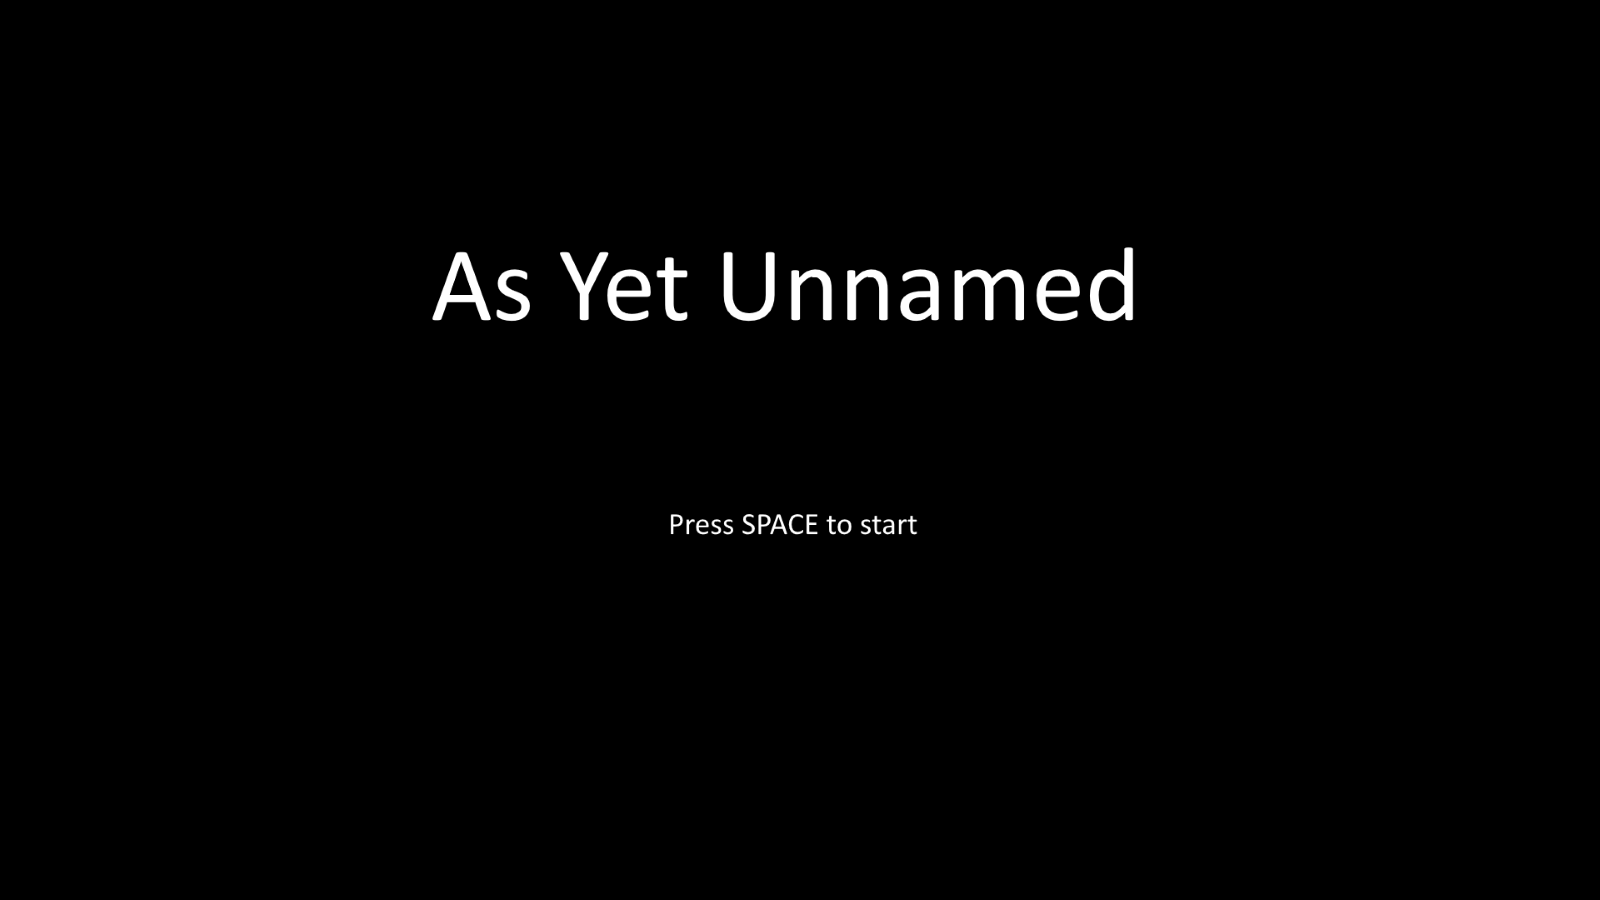
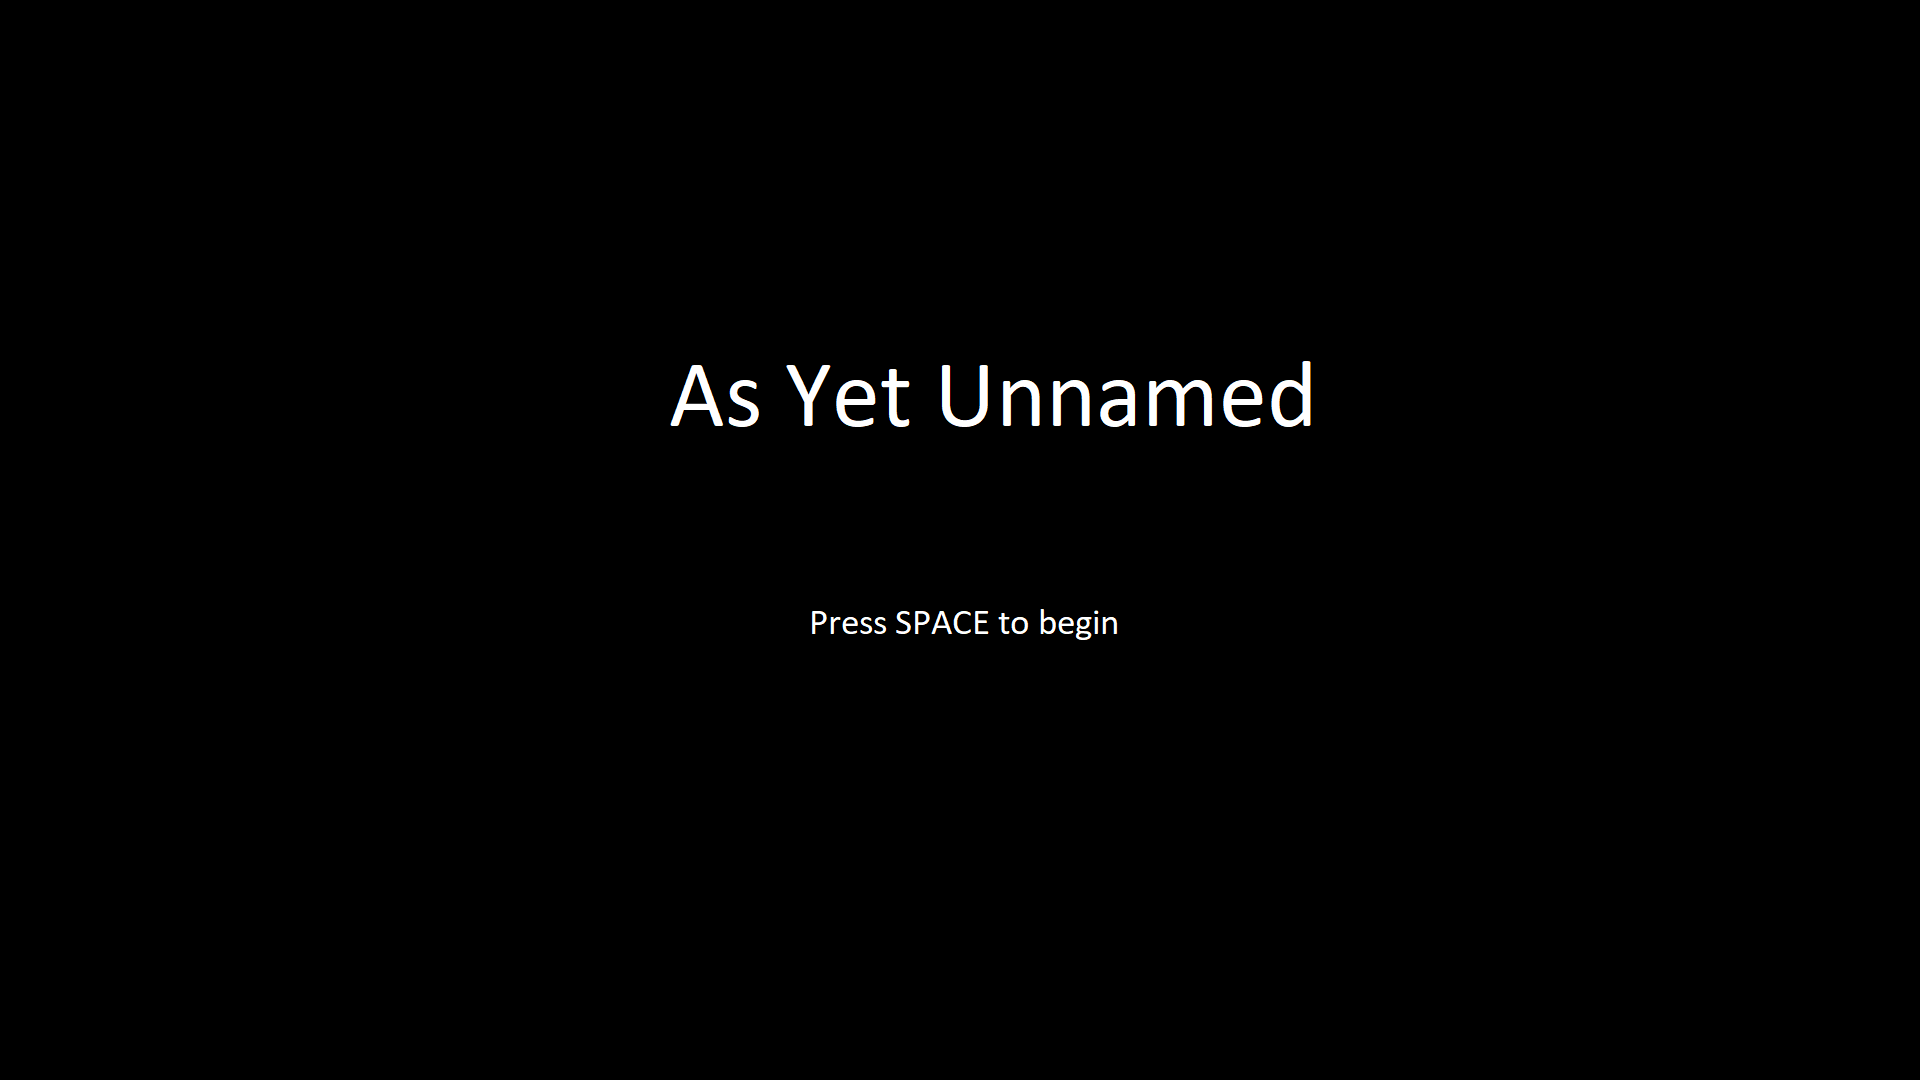
Removed UI class, TitleScreen now closes, bumped up TitleScreen resolution

Changed region(s): [[0.25, 0.28, 0.7188, 0.4044], [0.4062, 0.56, 0.5938, 0.5911]]

diff --git a/src/TitleScreen.cpp b/src/TitleScreen.cpp
@@ -1,13 +1,14 @@
 #include "stdafx.h"
+#include "Game.h"
 #include "TitleScreen.h"
 
-void TitleScreen::Show(sf::RenderWindow& window)
+bool TitleScreen::Show(sf::RenderWindow& window)
 {
 	sf::Texture image;
 	if (image.loadFromFile("res/img/TitleScreen_Temp.png") != true)
 	{
 		throw std::invalid_argument("FAILED TO LOAD: TitleScreen");
-		return;
+		return true;
 	}
 
 	sf::Sprite sprite(image);
@@ -21,11 +22,13 @@ void TitleScreen::Show(sf::RenderWindow& window)
 	{
 		while (window.pollEvent(event))
 		{
-			if (event.type == sf::Event::EventType::KeyPressed 
+			if (event.type == sf::Event::EventType::KeyPressed
 				&& event.key.code == sf::Keyboard::Space)
 			{
-				return;
+				return false;
 			}
+			else if (event.type == sf::Event::Closed)
+				return true;
 		}
 	}
 

diff --git a/src/Game.h b/src/Game.h
@@ -6,16 +6,10 @@ class Game
 public:
 	static void Start();
 
-	const static int screen_Width = 1920;
-	const static int screen_Height = 1080;
+	const static int screen_Width = 1600;
+	const static int screen_Height = 900;
 
 private:
-	static void GameLoop();
-	static bool IsExiting();
-	static void ShowTitleScreen();
-	static void ShowMainMenu();
-	static void ShowPauseMenu();
-	
 	enum GameState
 	{
 		Uninitialized,
@@ -25,8 +19,14 @@ private:
 		Paused,
 		Exiting
 	};
-
+	
 	static GameState gameState;
 	static sf::RenderWindow mainWindow;
 	static Game_ObjectManager game_objectManager;
+
+	static void GameLoop();
+	static bool IsExiting();
+	static void ShowTitleScreen();
+	static void ShowMainMenu();
+	static void ShowPauseMenu();
 };

diff --git a/src/Game.cpp b/src/Game.cpp
@@ -22,8 +22,11 @@ void Game::Start()
 void Game::ShowTitleScreen()
 {
 	TitleScreen titleScreen;
-	titleScreen.Show(mainWindow);
-	gameState = Game::ShowingMenu;
+	bool quit = titleScreen.Show(mainWindow);
+	if (quit)
+		gameState = Game::Exiting;
+	else
+		gameState = Game::ShowingMenu;
 }
 
 void Game::ShowMainMenu()

diff --git a/src/TitleScreen.h b/src/TitleScreen.h
@@ -2,5 +2,5 @@
 class TitleScreen
 {
 public:
-	void Show(sf::RenderWindow& window);
+	bool Show(sf::RenderWindow& window);
 };
